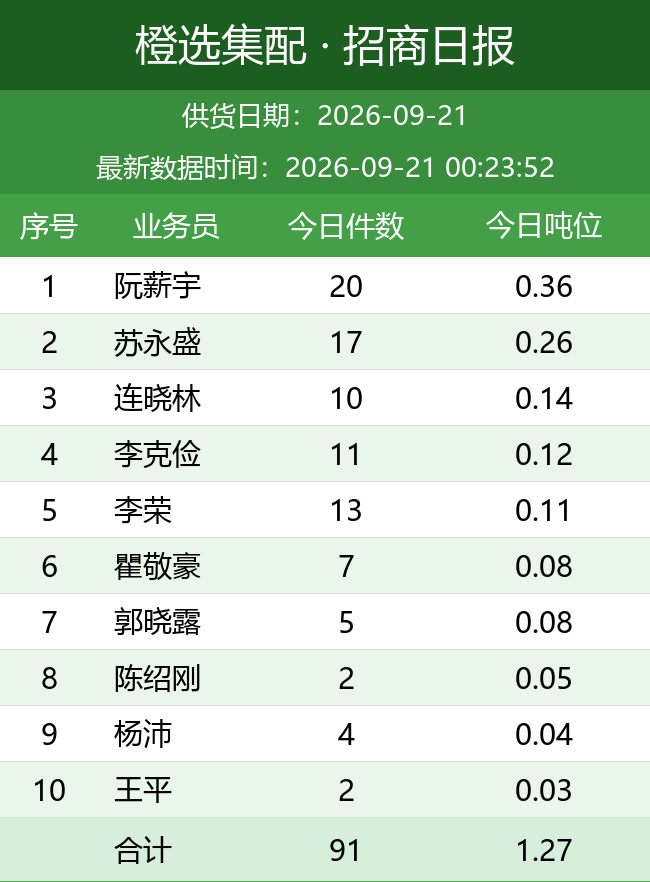
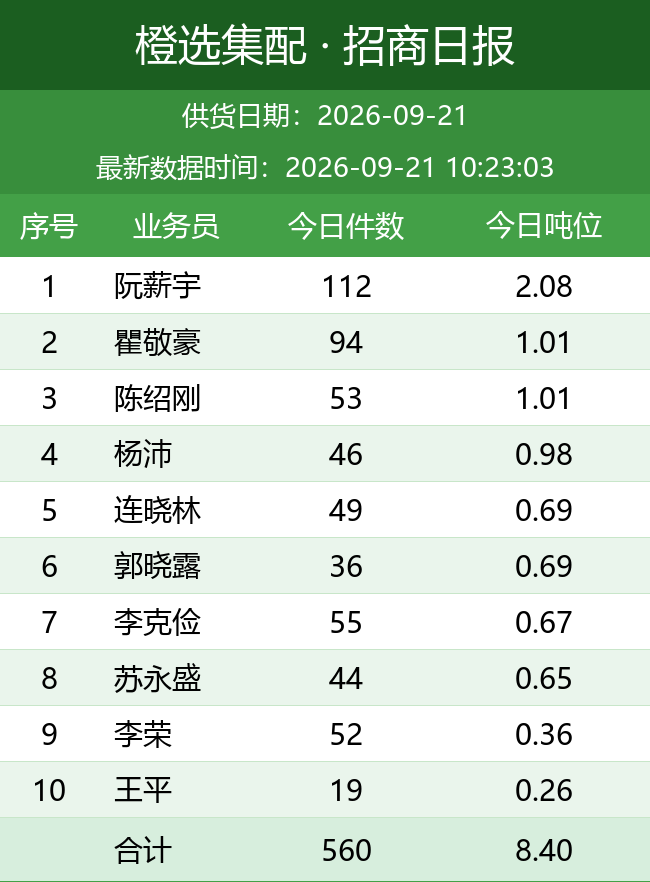
自动更新日报图片

diff --git a/daily_report/index.html b/daily_report/index.html
@@ -11,7 +11,7 @@ img { max-width: 100%; border: 1px solid #e5e5e5; margin-bottom: 24px; display: 
 </style>
 </head>
 <body>
-<h1>橙选集配日报图片（20260921_002354）</h1>
+<h1>橙选集配日报图片（20260921_102306）</h1>
 <img src="bd_latest.png" alt="BD 日报">
 <img src="wh_latest.png" alt="城市仓日报">
 <img src="zs_latest.png" alt="招商日报">
